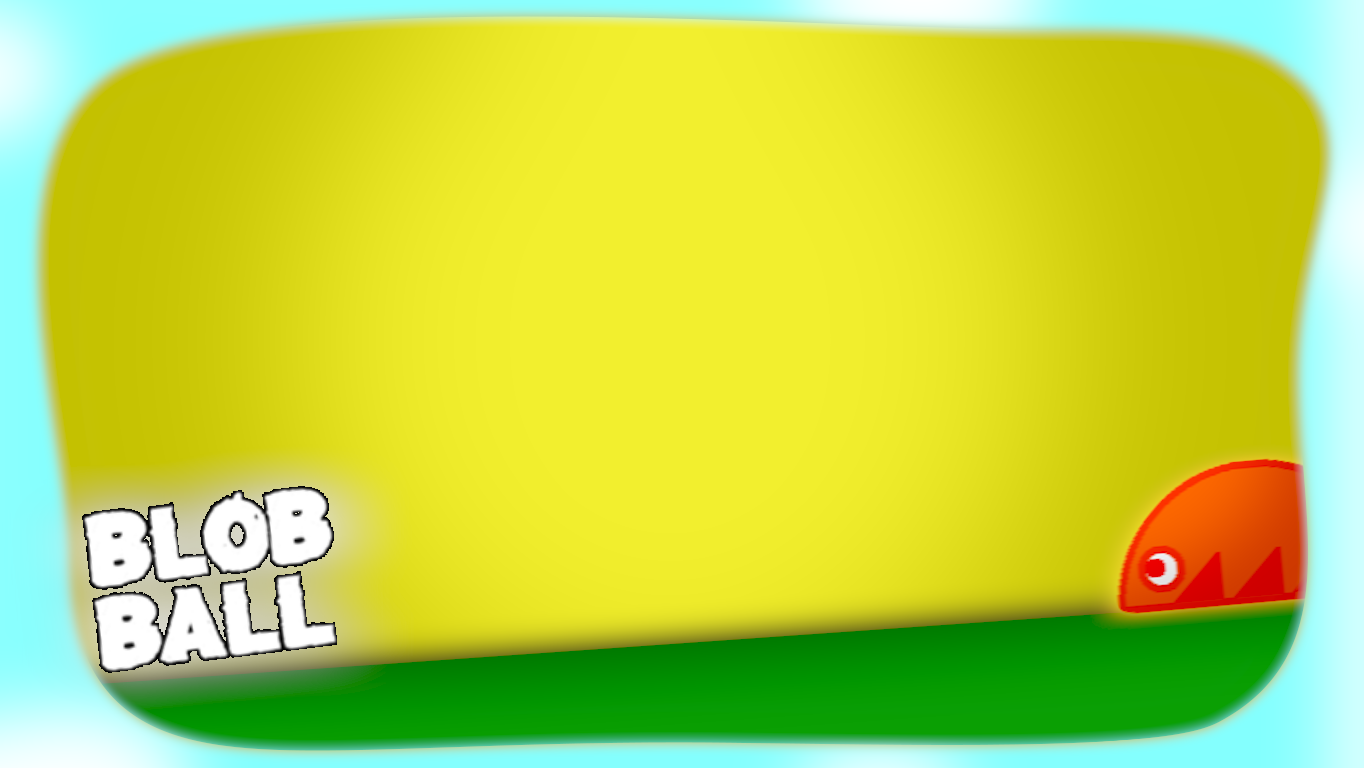
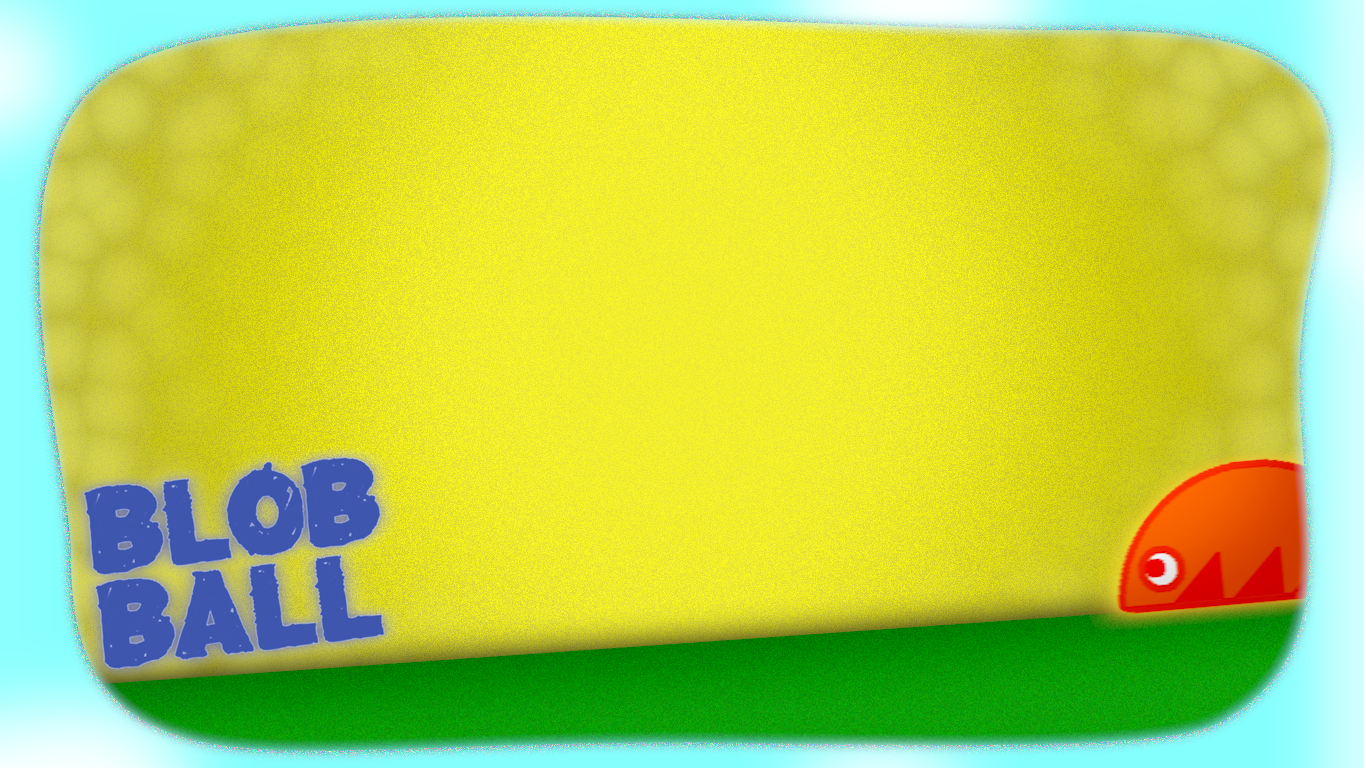
Updated a lot of images
Updated all ball and UI Icons (Thanks, Ellexium!)

diff --git a/resources/background_handler.py b/resources/background_handler.py
@@ -20,7 +20,7 @@ def load_background(game_screen, settings):
         if(settings['hd_backgrounds']):
             background_cache['background'] = pg.image.load(cwd + "\\resources\\images\\main_menu_background_hd.png")
         else:
-            background_cache['background'] = pg.image.load(cwd + "\\resources\\images\\green_background.png")
+            background_cache['background'] = pg.image.load(cwd + "\\resources\\images\\main_menu_background.png")
     elif(game_screen == "casual_css"):
         background_cache['background'] = pg.image.load(cwd + "\\resources\\images\\green_background.png")
     elif(game_screen == "casual_match"):
